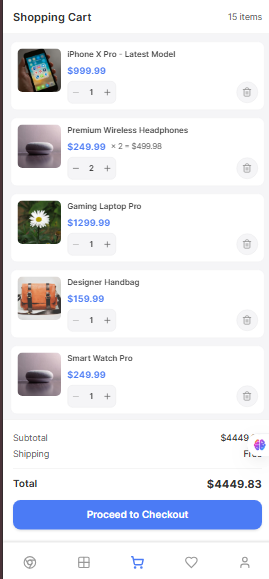
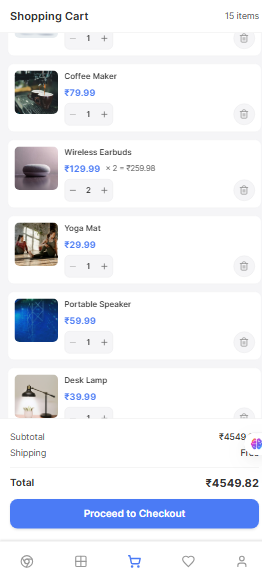
fixes

diff --git a/app/checkout.tsx b/app/checkout.tsx
@@ -27,7 +27,7 @@ export default function CheckoutScreen() {
     // Simulate order processing
     Alert.alert(
       'Order Placed Successfully!',
-      `Thank you for your order!\n\nOrder Details:\n• ${cartItems.length} item${cartItems.length !== 1 ? 's' : ''}\n• Total: $${totalAmount.toFixed(2)}\n• Payment: ${paymentMethod.replace('_', ' ').toUpperCase()}\n• Delivery: ${deliveryMethod.replace('_', ' ')} delivery\n\nYour order will be processed and shipped to:\n${address.fullName}\n${address.street}\n${address.city}, ${address.state} ${address.zipCode}`,
+      `Thank you for your order!\n\nOrder Details:\n• ${cartItems.length} item${cartItems.length !== 1 ? 's' : ''}\n• Total: ₹${totalAmount.toFixed(2)}\n• Payment: ${paymentMethod.replace('_', ' ').toUpperCase()}\n• Delivery: ${deliveryMethod.replace('_', ' ')} delivery\n\nYour order will be processed and shipped to:\n${address.fullName}\n${address.street}\n${address.city}, ${address.state} ${address.zipCode}`,
       [
         {
           text: 'Continue Shopping',
@@ -314,7 +314,7 @@ export default function CheckoutScreen() {
                 <Text style={[
                   styles.optionPrice,
                   isSmallDevice && styles.optionPriceSmall
-                ]}>$5.00</Text>
+                ]}>₹5.00</Text>
                 {deliveryMethod === 'standard' && (
                   <View style={[
                     styles.checkmark,
@@ -346,7 +346,7 @@ export default function CheckoutScreen() {
                 <Text style={[
                   styles.optionPrice,
                   isSmallDevice && styles.optionPriceSmall
-                ]}>$15.00</Text>
+                ]}>₹15.00</Text>
                 {deliveryMethod === 'express' && (
                   <View style={[
                     styles.checkmark,
@@ -378,7 +378,7 @@ export default function CheckoutScreen() {
                 <Text style={[
                   styles.optionPrice,
                   isSmallDevice && styles.optionPriceSmall
-                ]}>$25.00</Text>
+                ]}>₹25.00</Text>
                 {deliveryMethod === 'same_day' && (
                   <View style={[
                     styles.checkmark,
@@ -409,7 +409,7 @@ export default function CheckoutScreen() {
               <Text style={[
                 styles.summaryValue,
                 isSmallDevice && styles.summaryValueSmall
-              ]}>${cartTotal.toFixed(2)}</Text>
+              ]}>₹{cartTotal.toFixed(2)}</Text>
             </View>
             
             <View style={styles.summaryRow}>
@@ -420,7 +420,7 @@ export default function CheckoutScreen() {
               <Text style={[
                 styles.summaryValue,
                 isSmallDevice && styles.summaryValueSmall
-              ]}>${deliveryFee.toFixed(2)}</Text>
+              ]}>₹{deliveryFee.toFixed(2)}</Text>
             </View>
             
             <View style={[styles.summaryRow, styles.totalRow]}>
@@ -431,7 +431,7 @@ export default function CheckoutScreen() {
               <Text style={[
                 styles.totalValue,
                 isSmallDevice && styles.totalValueSmall
-              ]}>${totalAmount.toFixed(2)}</Text>
+              ]}>₹{totalAmount.toFixed(2)}</Text>
             </View>
           </View>
         </ScrollView>

diff --git a/app/orders.tsx b/app/orders.tsx
@@ -125,11 +125,11 @@ export default function OrdersScreen() {
   };
 
   const handleOrderDetails = (order: Order) => {
-    const itemsList = order.items.map(item => `• ${item.name} (x${item.quantity}) - $${item.price}`).join('\n');
+    const itemsList = order.items.map(item => `• ${item.name} (x${item.quantity}) - ₹${item.price}`).join('\n');
     
     Alert.alert(
       `Order Details - ${order.id}`,
-      `Order Date: ${order.date}\nStatus: ${order.status.toUpperCase()}\nTotal: $${order.total.toFixed(2)}\n\nItems:\n${itemsList}${order.tracking ? `\n\nTracking: ${order.tracking}` : ''}${order.deliveryDate ? `\nDelivered: ${order.deliveryDate}` : ''}`,
+      `Order Date: ${order.date}\nStatus: ${order.status.toUpperCase()}\nTotal: ₹${order.total.toFixed(2)}\n\nItems:\n${itemsList}${order.tracking ? `\n\nTracking: ${order.tracking}` : ''}${order.deliveryDate ? `\nDelivered: ${order.deliveryDate}` : ''}`,
       [
         { text: 'Track Order', onPress: () => handleTrackOrder(order) },
         { text: 'Reorder', onPress: () => handleReorder(order) },
@@ -204,7 +204,7 @@ export default function OrdersScreen() {
 
             <View style={styles.orderFooter}>
               <Text style={[styles.orderTotal, { fontSize: isSmallDevice ? 14 : 16 }]}>
-                Total: ${order.total.toFixed(2)}
+                Total: ₹{order.total.toFixed(2)}
               </Text>
               <View style={styles.actionButtons}>
                 {order.status !== 'cancelled' && (

diff --git a/app/(tabs)/cart.tsx b/app/(tabs)/cart.tsx
@@ -105,7 +105,7 @@ export default function CartScreen() {
                 styles.totalAmount,
                 { fontSize: isSmallDevice ? 13 : 14 }
               ]}>
-                ${cartTotal.toFixed(2)}
+                ₹{cartTotal.toFixed(2)}
               </Text>
             </View>
             
@@ -120,7 +120,7 @@ export default function CartScreen() {
                 styles.totalAmount,
                 { fontSize: isSmallDevice ? 13 : 14 }
               ]}>
-                {shippingCost === 0 ? 'Free' : `$${shippingCost.toFixed(2)}`}
+                {shippingCost === 0 ? 'Free' : `₹${shippingCost.toFixed(2)}`}
               </Text>
             </View>
             
@@ -129,7 +129,7 @@ export default function CartScreen() {
                 styles.freeShippingText,
                 { fontSize: isSmallDevice ? 11 : 12 }
               ]}>
-                Add ${(50 - cartTotal).toFixed(2)} more for free shipping
+                Add ₹{(50 - cartTotal).toFixed(2)} more for free shipping
               </Text>
             )}
             
@@ -144,7 +144,7 @@ export default function CartScreen() {
                 styles.grandTotalAmount,
                 { fontSize: isSmallDevice ? 17 : isMediumDevice ? 18 : 20 }
               ]}>
-                ${totalAmount.toFixed(2)}
+                ₹{totalAmount.toFixed(2)}
               </Text>
             </View>
             

diff --git a/app/product/[id].tsx b/app/product/[id].tsx
@@ -69,7 +69,7 @@ export default function ProductDetailScreen() {
     addToCart(product, quantity);
     Alert.alert(
       'Added to Cart!',
-      `${quantity} x ${product.name} added to cart\nTotal: $${(product.price * quantity).toFixed(2)}`,
+      `${quantity} x ${product.name} added to cart\nTotal: ₹${(product.price * quantity).toFixed(2)}`,
       [
         { text: 'Continue Shopping', style: 'cancel' },
         { text: 'View Cart', onPress: () => router.push('/(tabs)/cart') }
@@ -181,7 +181,7 @@ export default function ProductDetailScreen() {
               <Text style={[
                 styles.price,
                 isSmallDevice && styles.priceSmall
-              ]}>${product.price.toFixed(2)}</Text>
+              ]}>₹{product.price.toFixed(2)}</Text>
               <Text style={[
                 styles.soldText,
                 isSmallDevice && styles.soldTextSmall
@@ -251,7 +251,7 @@ export default function ProductDetailScreen() {
               styles.totalPrice,
               isSmallDevice && styles.totalPriceSmall
             ]}>
-              ${(product.price * quantity).toFixed(2)}
+              ₹{(product.price * quantity).toFixed(2)}
             </Text>
           </View>
           

diff --git a/components/products/ProductCard.tsx b/components/products/ProductCard.tsx
@@ -120,7 +120,7 @@ export default function ProductCard({
               styles.listPrice,
               { fontSize: isSmallDevice ? 16 : isLargeDevice ? 20 : 18 }
             ]}>
-              ${product.price.toFixed(2)}
+              ₹{product.price.toFixed(2)}
             </Text>
             <Text style={[
               styles.listSoldText,
@@ -206,7 +206,7 @@ export default function ProductCard({
               styles.gridPrice,
               { fontSize: isSmallDevice ? 14 : isLargeDevice ? 18 : 16 }
             ]}>
-              ${product.price.toFixed(2)}
+              ₹{product.price.toFixed(2)}
             </Text>
             <Text style={[
               styles.gridSoldText,

diff --git a/components/home/FlashSellSection.tsx b/components/home/FlashSellSection.tsx
@@ -175,13 +175,13 @@ export default function FlashSellSection() {
                   styles.productPrice,
                   { fontSize: isSmallDevice ? 14 : isLargeDevice ? 18 : 16 }
                 ]}>
-                  ${product.price}
+                  ₹{product.price}
                 </Text>
                 <Text style={[
                   styles.originalPrice,
                   { fontSize: isSmallDevice ? 10 : 12 }
                 ]}>
-                  ${(product.price * 1.3).toFixed(2)}
+                  ₹{(product.price * 1.3).toFixed(2)}
                 </Text>
               </View>
               <View style={styles.bottomRow}>

diff --git a/components/cart/CartItem.tsx b/components/cart/CartItem.tsx
@@ -97,14 +97,14 @@ export default function CartItem({ item }: CartItemProps) {
               styles.price,
               { fontSize: isSmallDevice ? 14 : isMediumDevice ? 15 : 16 }
             ]}>
-              ${item.price.toFixed(2)}
+              ₹{item.price.toFixed(2)}
             </Text>
             {item.quantity > 1 && (
               <Text style={[
                 styles.quantityPrice,
                 { fontSize: isSmallDevice ? 11 : 12 }
               ]}>
-                × {item.quantity} = ${totalPrice}
+                × {item.quantity} = ₹{totalPrice}
               </Text>
             )}
           </View>

diff --git a/app/(tabs)/profile.tsx b/app/(tabs)/profile.tsx
@@ -181,13 +181,13 @@ export default function ProfileScreen() {
                 styles.profileName,
                 { fontSize: isSmallDevice ? 16 : isMediumDevice ? 18 : 20 }
               ]}>
-                John Doe
+                Hemant Kumar
               </Text>
               <Text style={[
                 styles.profileEmail,
                 { fontSize: isSmallDevice ? 12 : isMediumDevice ? 13 : 14 }
               ]}>
-                johndoe@example.com
+                hemant27134@gmail.com
               </Text>
               <View style={styles.membershipBadge}>
                 <Text style={[

diff --git a/app/payment-methods.tsx b/app/payment-methods.tsx
@@ -116,7 +116,7 @@ export default function PaymentMethodsScreen() {
   const addPayPal = () => {
     Alert.alert(
       'Add PayPal',
-      'Demo: Link your PayPal account\n\n• Email: john.doe@email.com\n• Account Status: Verified\n• Balance: $1,234.56',
+      'Demo: Link your PayPal account\n\n• Email: john.doe@email.com\n• Account Status: Verified\n• Balance: ₹1,234.56',
       [
         { 
           text: 'Link Account', 

diff --git a/README.md b/README.md
@@ -26,7 +26,7 @@ This is a demo preview of the application interface.
 
 ### 🛍 Cart & Checkout
 - **Dynamic Cart**: Add, remove, update quantities with real-time totals
-- **Smart Shipping**: Free shipping over $50, calculated shipping costs
+- **Smart Shipping**: Free shipping over ₹50, calculated shipping costs
 - **Complete Checkout Flow**: Address, payment method, delivery options
 - **Order Confirmation**: Detailed order summary with tracking information
 
